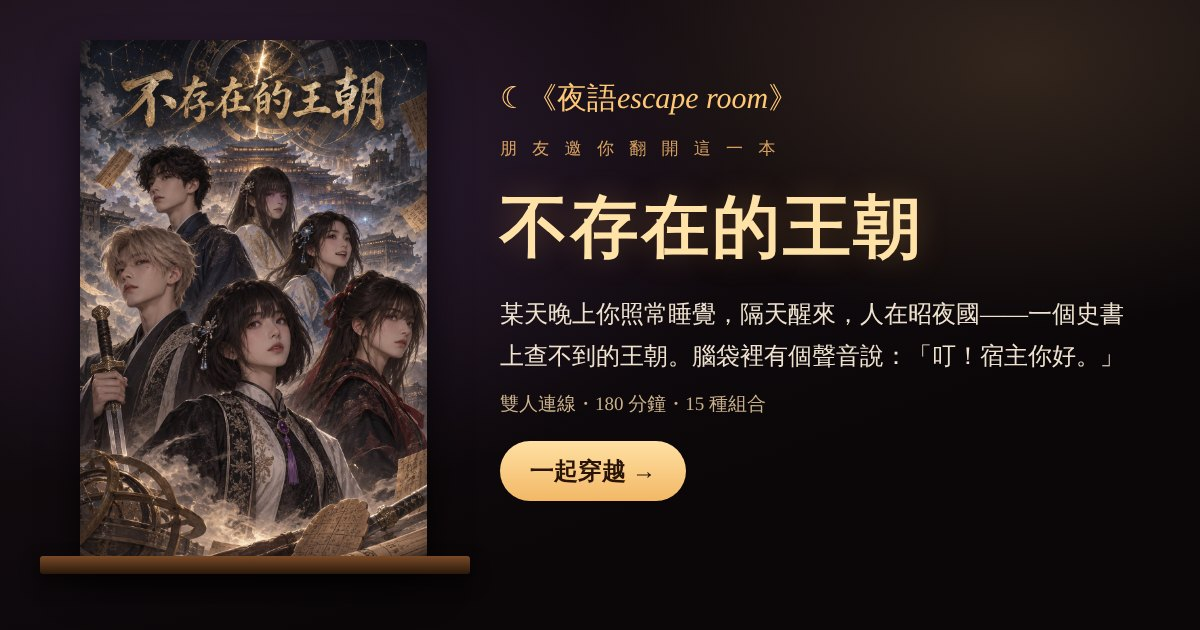
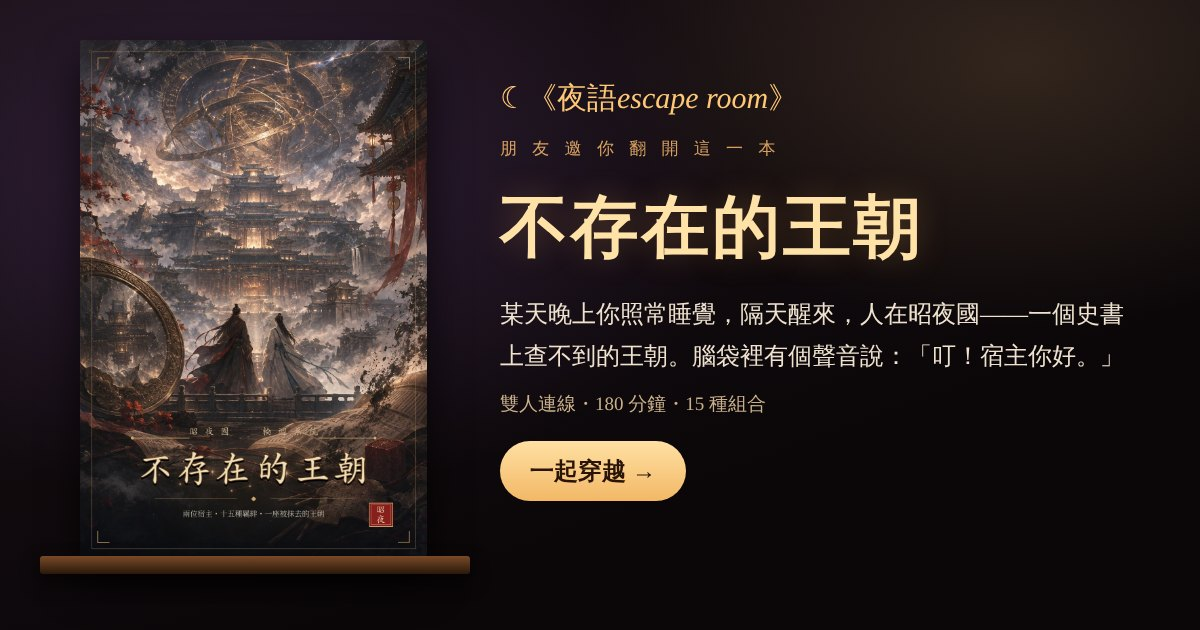
《不存在的王朝》換新封面（大圖、卡片縮圖、分享預覽圖 v=2）
Claude-Session: https://claude.ai/code/session_01JMQLQfY4iJYEiZ9LS3yEnB

Changed region(s): [[0.0617, 0.0603, 0.37, 0.9048]]

diff --git a/g/dynasty/index.html b/g/dynasty/index.html
@@ -10,10 +10,10 @@
 <meta property="og:site_name" content="夜語escape room">
 <meta property="og:title" content="不存在的王朝｜夜語escape room・線上密室逃脫">
 <meta property="og:description" content="某天晚上你照常睡覺，隔天醒來，人在昭夜國——一個史書上查不到的王朝。腦袋裡有個聲音說：「叮！宿主你好。」兩位宿主、各自的古代身分、七天，阻止昭夜國被抹除。雙人連線，選誰跟誰，就走進哪一個故事。">
-<meta property="og:image" content="https://lobby.noron.workers.dev/covers/og/dynasty.jpg?v=1">
+<meta property="og:image" content="https://lobby.noron.workers.dev/covers/og/dynasty.jpg?v=2">
 <meta property="og:image:width" content="1200">
 <meta property="og:image:height" content="630">
-<meta name="twitter:image" content="https://lobby.noron.workers.dev/covers/og/dynasty.jpg?v=1">
+<meta name="twitter:image" content="https://lobby.noron.workers.dev/covers/og/dynasty.jpg?v=2">
 <meta property="og:url" content="https://lobby.noron.workers.dev/g/dynasty/">
 <meta name="twitter:card" content="summary_large_image">
 <meta name="robots" content="noindex">
